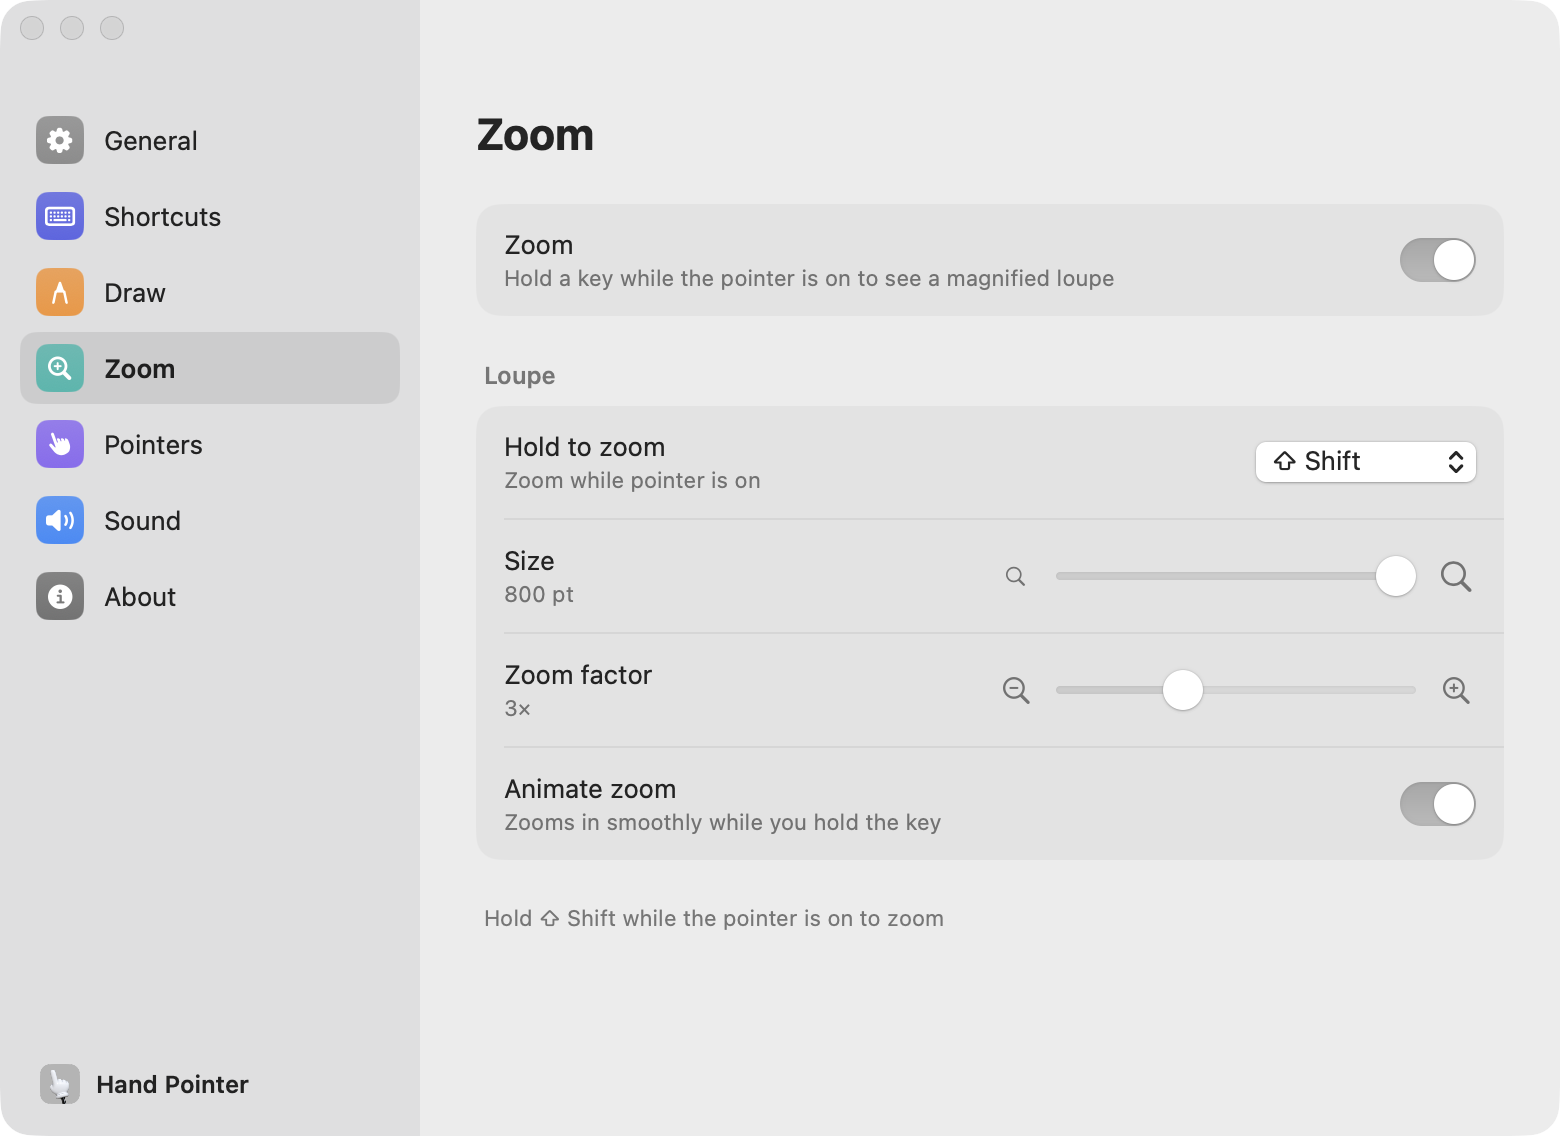
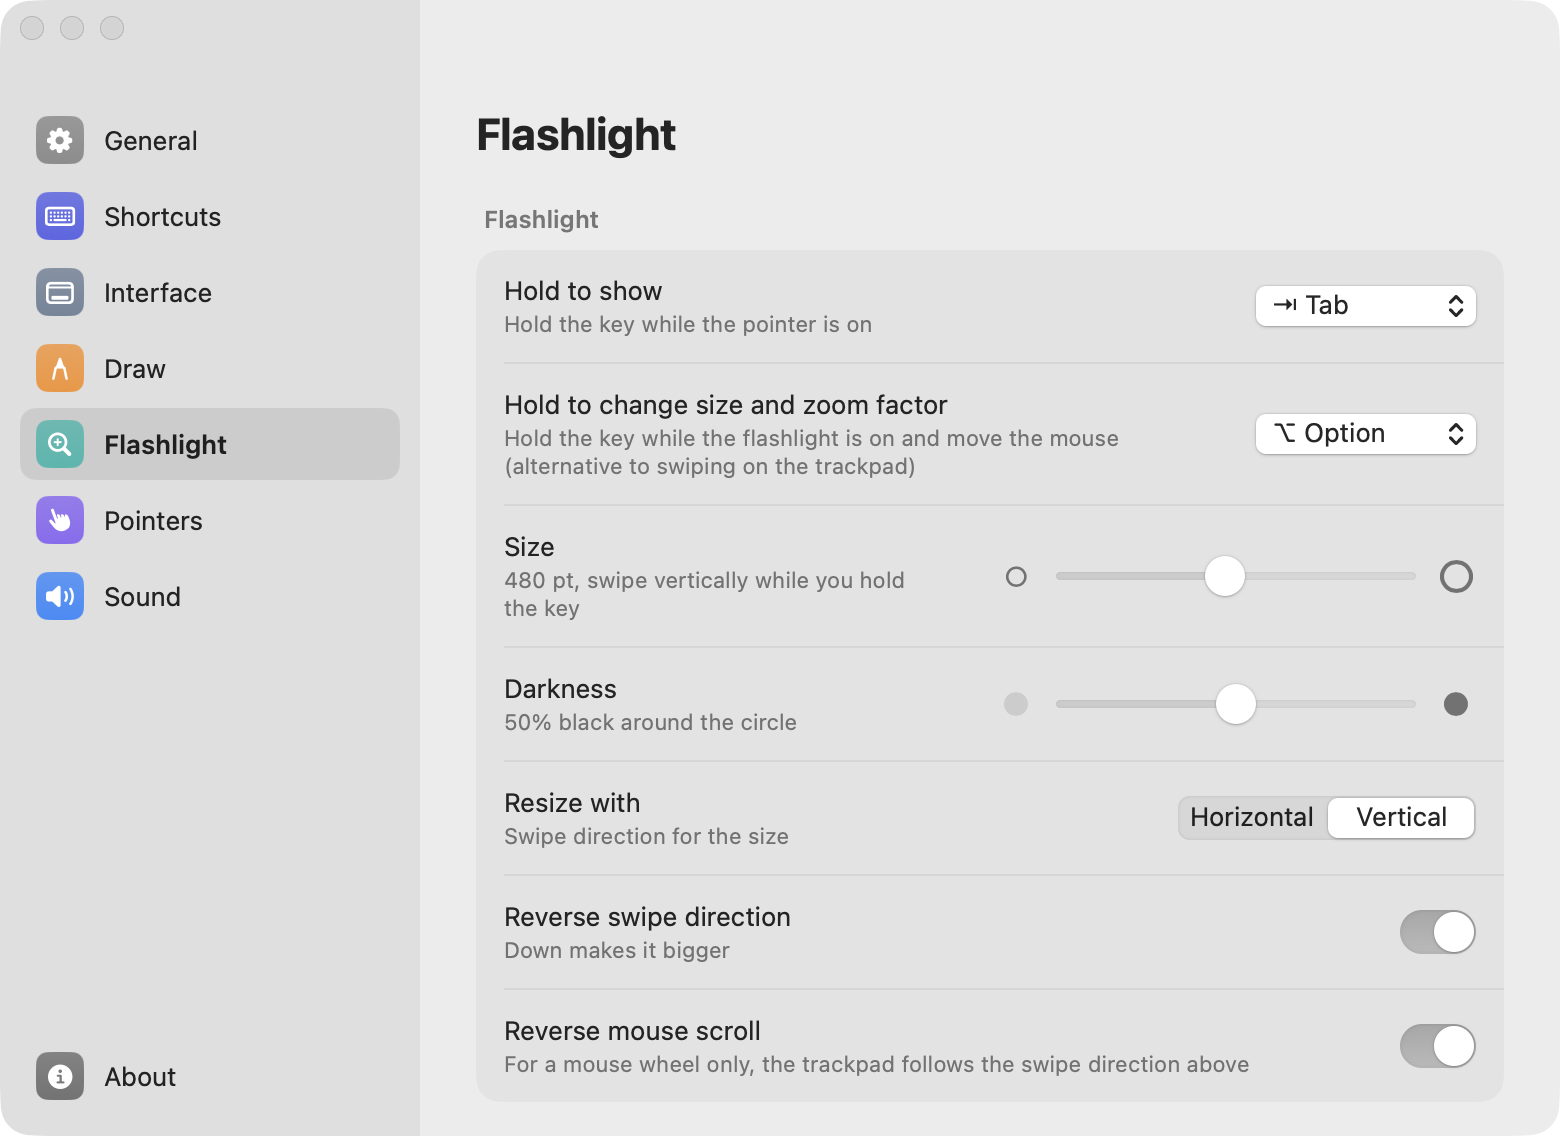
Quite Handy 1.6.5: Interface settings, hideable whiteboard, toolbar reset

diff --git a/Sources/QuiteHandy/Whiteboard.swift b/Sources/QuiteHandy/Whiteboard.swift
@@ -52,6 +52,10 @@ final class Whiteboard {
     /// otherwise a white cog on 10 % black.
     private var cogOnLight = false
     private var lastCogSample = Date.distantPast
+    /// Off in Settings: no sheets in the corner, the cog moves down into it.
+    private var sheetsShown = Preferences.showWhiteboard
+    /// Hidden while a screenshot is taken.
+    private var cornerHidden = false
     /// The board being pulled out of the corner (it only appears once the pointer has moved).
     private var pulling: (board: Board, start: CGPoint, started: Bool)?
     /// The board being carried by its grip (or caught while floating).
@@ -198,7 +202,7 @@ final class Whiteboard {
             cogHovered = overCog
             layoutCorner()
         }
-        let near = top == nil && !overCog && peekHitRect.insetBy(dx: -40, dy: -40).contains(mouse)
+        let near = sheetsShown && top == nil && !overCog && peekHitRect.insetBy(dx: -40, dy: -40).contains(mouse)
         if near != peekLifted {
             peekLifted = near
             CATransaction.begin()
@@ -217,7 +221,14 @@ final class Whiteboard {
         let corner = CGPoint(x: screenSize.width, y: 0)
         peek.position = corner
         peekBack.position = corner
-        cog.position = CGPoint(x: screenSize.width - Whiteboard.peekSize.width / 2, y: Whiteboard.peekSize.height + 24 + Whiteboard.buttonSize / 2)
+        peek.isHidden = cornerHidden || !sheetsShown
+        peekBack.isHidden = cornerHidden || !sheetsShown
+        cog.isHidden = cornerHidden
+        // Without the sheets the cog sits in the corner itself, as far from the bottom as from the right.
+        let cogInset = Whiteboard.peekSize.width / 2 - Whiteboard.buttonSize / 2
+        cog.position = sheetsShown
+            ? CGPoint(x: screenSize.width - Whiteboard.peekSize.width / 2, y: Whiteboard.peekSize.height + 24 + Whiteboard.buttonSize / 2)
+            : CGPoint(x: screenSize.width - Whiteboard.peekSize.width / 2, y: cogInset + Whiteboard.buttonSize / 2)
         cog.backgroundColor = NSColor(white: cogOnLight ? 1 : 0, alpha: cogHovered ? 0.2 : 0.1).cgColor
         cog.sublayers?.first?.contents = Whiteboard.lucideImage("cog", color: cogOnLight ? .black : .white)
         cog.sublayers?.first?.shadowOpacity = cogOnLight ? 0 : 0.25
@@ -243,12 +254,17 @@ final class Whiteboard {
 
     /// Hides the sheets and the cog in the corner (while a screenshot is taken).
     func setCornerHidden(_ hidden: Bool) {
-        CATransaction.begin()
-        CATransaction.setDisableActions(true)
-        peek.isHidden = hidden
-        peekBack.isHidden = hidden
-        cog.isHidden = hidden
-        CATransaction.commit()
+        cornerHidden = hidden
+        layoutCorner()
+    }
+
+    /// Settings changed: shows or hides the sheets in the corner.
+    func setSheetsShown(_ shown: Bool) {
+        guard shown != sheetsShown else {
+            return
+        }
+        sheetsShown = shown
+        layoutCorner()
     }
 
     private var screenToast: CALayer?
@@ -442,7 +458,7 @@ final class Whiteboard {
         if cog.frame.contains(p) {
             return (.settings, nil)
         }
-        return peekHitRect.contains(p) ? (.peek, nil) : (.none, nil)
+        return sheetsShown && peekHitRect.contains(p) ? (.peek, nil) : (.none, nil)
     }
 
     fileprivate func changed(_ b: Board, from: State, to: State) {
@@ -640,6 +656,7 @@ final class Whiteboard {
         let size = CGSize(width: 1440, height: 900)
         let wb = Whiteboard()
         wb.screenSize = size
+        wb.sheetsShown = !CommandLine.arguments.contains("--no-sheets")
         wb.layoutCorner()
         if CommandLine.arguments.contains("--peek") {
         } else if pulling {

diff --git a/Sources/QuiteHandy/Preferences.swift b/Sources/QuiteHandy/Preferences.swift
@@ -267,7 +267,18 @@ enum InkChoice: String, CaseIterable {
 
 enum Preferences {
     static let changed = Notification.Name("QuiteHandyPreferencesChanged")
-    private static let defaults = UserDefaults.standard
+    /// Where settings live. TH_DEFAULTS=1 (for --settings-test screenshots) uses an empty
+    /// throwaway store instead, so pages show the settings as they are at first.
+    static let store: UserDefaults = {
+        guard ProcessInfo.processInfo.environment["TH_DEFAULTS"] != nil else {
+            return .standard
+        }
+        let name = "com.esreverse.quitehandy.snapshot"
+        let d = UserDefaults(suiteName: name) ?? .standard
+        d.removePersistentDomain(forName: name)
+        return d
+    }()
+    private static let defaults = store
 
     static var toggleShortcut: Shortcut {
         get { loadShortcut("shortcut.toggle") ?? .toggleDefault }
@@ -593,6 +604,12 @@ enum Preferences {
         set { set(newValue, "showKnobs") }
     }
 
+    /// The sheets of paper in the bottom right corner that open a whiteboard.
+    static var showWhiteboard: Bool {
+        get { defaults.object(forKey: "showWhiteboard") as? Bool ?? true }
+        set { set(newValue, "showWhiteboard") }
+    }
+
     static var showInkButton: Bool {
         get { defaults.object(forKey: "showInkButton") as? Bool ?? true }
         set { set(newValue, "showInkButton") }
@@ -652,7 +669,7 @@ enum Preferences {
                     "shortcut.nextPointer", "shortcut.previousPointer", "shortcut.nextInk", "shortcut.previousInk", "shortcut.copyScreen", "shortcut.saveScreen", "shortcut.sound",
                     "shortcut.rainbowInk", "shortcut.matchInk", "shortcut.undo", "shortcut.redo", "pointerSize", "showShadow", "fadeSeconds",
                     "sound.hands", "sound.laser", "interactKey", "interactKeepsHand", "pinnedStyles", "pointerStyle",
-                    "inkChoice", "showInkButton", "showKnobs", "tapSound", "showToolbar", "inkOpacity", "rainbowStep", "rainbowSpeed", "strokeSize",
+                    "inkChoice", "showInkButton", "showKnobs", "showWhiteboard", "tapSound", "showToolbar", "inkOpacity", "rainbowStep", "rainbowSpeed", "strokeSize",
                     "toolbarX", "toolbarY", "tapRipples", "soundOnDraw", "strokeSmoothing", "zoomKey", "loupeAdjustKey", "arrowKey", "stampKey", "loupeSize", "rightClickExits", "zoomFactor", "zoomOn", "dimAlpha", "resizeVertically", "reverseSwipe", "reverseMouseScroll", "zoomAnimated", "loupeDims", "showMenuBarIcon"] {
             defaults.removeObject(forKey: key)
         }
@@ -667,6 +684,8 @@ enum Preferences {
     }
 
     static let liveChanged = Notification.Name("QuiteHandyPreferencesLiveChanged")
+    /// Settings asked to put the toolbar back in its first place.
+    static let toolbarPositionReset = Notification.Name("QuiteHandyToolbarPositionReset")
     private static let liveKeys: Set<String> = ["loupeSize", "zoomFactor"]
 
     private static func loadShortcut(_ key: String) -> Shortcut? {

diff --git a/Sources/QuiteHandy/SettingsView.swift b/Sources/QuiteHandy/SettingsView.swift
@@ -12,7 +12,7 @@ enum SettingsSection: String, CaseIterable, Identifiable {
         case .general: return "General"
         case .pointers: return "Pointers"
         case .shortcuts: return "Shortcuts"
-        case .toolbar: return "Toolbar"
+        case .toolbar: return "Interface"
         case .drawing: return "Draw"
         case .zoom: return "Flashlight"
         case .sound: return "Sound"
@@ -1260,7 +1260,7 @@ private struct ToolbarPage: View {
 
     var body: some View {
         VStack(alignment: .leading, spacing: 22) {
-            Card(title: nil) {
+            Card(title: "Toolbar") {
                 Row("Show toolbar", detail: "The bar at the bottom of the screen while Quite Handy is on") {
                     Toggle("", isOn: model.binding({ Preferences.showToolbar }, { Preferences.showToolbar = $0 }))
                         .toggleStyle(.switch).labelsHidden().focusable(false)
@@ -1274,6 +1274,18 @@ private struct ToolbarPage: View {
                     Toggle("", isOn: model.binding({ Preferences.showKnobs }, { Preferences.showKnobs = $0 }))
                         .toggleStyle(.switch).labelsHidden().focusable(false)
                         .disabled(!Preferences.showToolbar)
+                }
+                Row("Position", detail: "Puts the toolbar back at the bottom middle of the screen") {
+                    PillButton(title: "Reset Position") {
+                        Preferences.toolbarPosition = nil
+                        NotificationCenter.default.post(name: Preferences.toolbarPositionReset, object: nil)
+                    }
+                }
+            }
+            Card(title: "Whiteboard") {
+                Row("Show whiteboard", detail: "The sheets of paper in the bottom right corner") {
+                    Toggle("", isOn: model.binding({ Preferences.showWhiteboard }, { Preferences.showWhiteboard = $0 }))
+                        .toggleStyle(.switch).labelsHidden().focusable(false)
                 }
             }
         }

diff --git a/Sources/QuiteHandy/OverlayController.swift b/Sources/QuiteHandy/OverlayController.swift
@@ -110,7 +110,7 @@ final class OverlayController {
             guard let self = self else {
                 return
             }
-            // The toolbar's drag handle: move the toolbar (right-click puts it back) instead of drawing.
+            // The toolbar's drag handle: move the toolbar instead of drawing.
             let mouse = NSEvent.mouseLocation
             // While zooming, clicks and drags never do anything.
             let zoomFlags = Preferences.zoomKey.cgFlags
@@ -300,10 +300,6 @@ final class OverlayController {
         inputTap.onLoupeScroll = { [weak self] dx, dy, phase in
             self?.scrollLoupe(dx: dx, dy: dy, phase: phase)
         }
-        inputTap.onCaptureRightClick = { [weak self] in
-            self?.toolbar.resetPosition()
-            self?.noteButtonEvent()
-        }
         inputTap.onRightClickExit = { [weak self] in
             self?.exit()
         }
@@ -341,11 +337,15 @@ final class OverlayController {
         toolbar.select(armView.style)
         tapSound.enabled = soundOn
         toolbar.setSoundOn(soundOn)
+        NotificationCenter.default.addObserver(forName: Preferences.toolbarPositionReset, object: nil, queue: .main) { [weak self] _ in
+            self?.toolbar.resetPosition()
+        }
         NotificationCenter.default.addObserver(forName: Preferences.changed, object: nil, queue: .main) { [weak self] _ in
             self?.syncSound()
             self?.inputTap.interactKey = Preferences.interactKey.cgFlags
             self?.inputTap.rightClickExits = Preferences.rightClickExits
             self?.armView.updateInkColor()
+            self?.whiteboard.setSheetsShown(Preferences.showWhiteboard)
             if let self = self, self.loadedTapSound != Preferences.tapSound {
                 self.loadedTapSound = Preferences.tapSound
                 self.tapSound.load(Preferences.tapSound)

diff --git a/Sources/QuiteHandy/InputTap.swift b/Sources/QuiteHandy/InputTap.swift
@@ -9,7 +9,6 @@ final class InputTap {
     var onPassThroughPress: ((CGPoint) -> Void)?
     var onRightClickExit: (() -> Void)?
     /// Right-click on a capture rect (the toolbar's drag handle).
-    var onCaptureRightClick: (() -> Void)?
     /// Scrolling while the zoom loupe is open, with the vertical scroll distance in points.
     /// Horizontal and vertical scroll distance while the loupe or flashlight is open.
     /// `began` is set on the first event of a trackpad swipe; momentum (coasting after lifting) is left out.
@@ -342,10 +341,9 @@ final class InputTap {
             return Unmanaged.passUnretained(event)
         }
 
-        // Right-click on the toolbar (but not its drag handle) ends the session like elsewhere.
+        // Right-click on the toolbar (its drag handle too) ends the session like elsewhere.
         if type == .rightMouseDown, rightClickExits,
-           rightExitRects.contains(where: { $0.contains(event.location) }),
-           !captureRects.contains(where: { $0.contains(event.location) }) {
+           rightExitRects.contains(where: { $0.contains(event.location) }) {
             swallowRightUp = true
             DispatchQueue.main.async { [weak self] in self?.onRightClickExit?() }
             return nil
@@ -375,9 +373,8 @@ final class InputTap {
 
         switch type {
         case .rightMouseDown where captureRects.contains { $0.contains(event.location) }:
-            // Right-click on the drag handle only resets the toolbar; it never ends the session.
+            // Right-click on the drag handle does nothing (when it doesn't turn the pointer off).
             swallowRightUp = true
-            DispatchQueue.main.async { [weak self] in self?.onCaptureRightClick?() }
             return nil
         case .rightMouseUp where swallowRightUp:
             swallowRightUp = false

diff --git a/Sources/QuiteHandy/Toolbar.swift b/Sources/QuiteHandy/Toolbar.swift
@@ -157,10 +157,9 @@ final class Toolbar {
         }
     }
 
-    /// Grip on the left end: drag to move the toolbar, right-click to put it back.
+    /// Grip on the left end: drag to move the toolbar (Settings puts it back).
     private final class Handle: NSView {
         var onMoved: (() -> Void)?
-        var onReset: (() -> Void)?
         private var start: CGPoint?
         private var startOrigin: CGPoint?
 
@@ -196,10 +195,6 @@ final class Toolbar {
             }
             start = nil
             startOrigin = nil
-        }
-
-        override func rightMouseDown(with event: NSEvent) {
-            onReset?()
         }
     }
 
@@ -292,12 +287,11 @@ final class Toolbar {
         ])
 
         let handle = Handle()
-        tips[handle] = "Drag to move, right-click to reset"
+        tips[handle] = "Drag to move"
         handle.translatesAutoresizingMaskIntoConstraints = false
         handle.widthAnchor.constraint(equalToConstant: 28).isActive = true
         handle.heightAnchor.constraint(equalToConstant: 40).isActive = true
         handle.onMoved = { [weak self] in self?.savePosition() }
-        handle.onReset = { [weak self] in self?.resetPosition() }
         stack.insertArrangedSubview(handle, at: 0)
         stack.setCustomSpacing(12, after: handle)
         handleView = handle

diff --git a/Sources/QuiteHandy/HandMaker.swift b/Sources/QuiteHandy/HandMaker.swift
@@ -322,6 +322,10 @@ enum CustomHands {
         if let override = ProcessInfo.processInfo.environment["TH_HANDS_DIR"] {
             return URL(fileURLWithPath: override, isDirectory: true)
         }
+        // Screenshots with the first settings: no hands of your own.
+        if ProcessInfo.processInfo.environment["TH_DEFAULTS"] != nil {
+            return FileManager.default.temporaryDirectory.appendingPathComponent("QuiteHandySnapshotHands", isDirectory: true)
+        }
         let base = FileManager.default.urls(for: .applicationSupportDirectory, in: .userDomainMask).first
             ?? URL(fileURLWithPath: NSHomeDirectory()).appendingPathComponent("Library/Application Support")
         return base.appendingPathComponent("QuiteHandy/Hands", isDirectory: true)

diff --git a/Sources/QuiteHandy/PointerStyle.swift b/Sources/QuiteHandy/PointerStyle.swift
@@ -118,7 +118,7 @@ struct PointerStyle: Hashable {
 
     static var saved: PointerStyle {
         get {
-            let raw = UserDefaults.standard.string(forKey: defaultsKey)
+            let raw = Preferences.store.string(forKey: defaultsKey)
             // The laser dot is gone: the simple cursor is the closest thing to it.
             if raw == "dot" || raw == "laser" {
                 return .stroke
@@ -128,7 +128,7 @@ struct PointerStyle: Hashable {
             }
             return raw.flatMap(PointerStyle.init(rawValue:)) ?? .glove
         }
-        set { UserDefaults.standard.set(newValue.rawValue, forKey: defaultsKey) }
+        set { Preferences.store.set(newValue.rawValue, forKey: defaultsKey) }
     }
 }
 

diff --git a/README.md b/README.md
@@ -148,7 +148,8 @@ Single keys only work while the pointer is on. All shortcuts can be changed in *
 |---|---|
 | **General** | Open at login, menu bar icon, automatic updates, check for updates, permission status |
 | **Shortcuts** | Every shortcut, right-click to turn off, the key to click for real |
-| **Draw** | Pointer and stroke size, opacity, how long lines stay, ink colour, rainbow speed and shift, tap circle, toolbar |
+| **Interface** | Toolbar: show it, colour palette, opacity and size knobs, reset its position; Whiteboard: show the sheets in the corner |
+| **Draw** | Pointer and stroke size, opacity, how long lines stay, ink colour, rainbow speed and shift, tap circle |
 | **Flashlight** | Hold key, size, darkness (10–90 %), which swipe resizes, reverse swipe direction; Zoom on/off, zoom factor |
 | **Pointers** | Which pointers are in the toolbar and in what order, and your own hands |
 | **Sound** | Tap sound, play on tap only or on tap and draw |

diff --git a/CHANGELOG.md b/CHANGELOG.md
@@ -5,6 +5,13 @@ so write it for people using the app.
 
 
 
+## 1.6.5
+
+- Settings: The Toolbar page is now called Interface, with a group for the toolbar and one for the whiteboard
+- The whiteboard sheets in the bottom-right corner can be hidden; the Settings cog then moves down into the corner
+- Reset Position in Settings puts the toolbar back at the bottom middle of the screen; right-clicking its handle no longer does
+
+
 ## 1.6.1
 
 - The flashlight and the zoom loupe run much more smoothly: the darkening is no longer redrawn on every move
